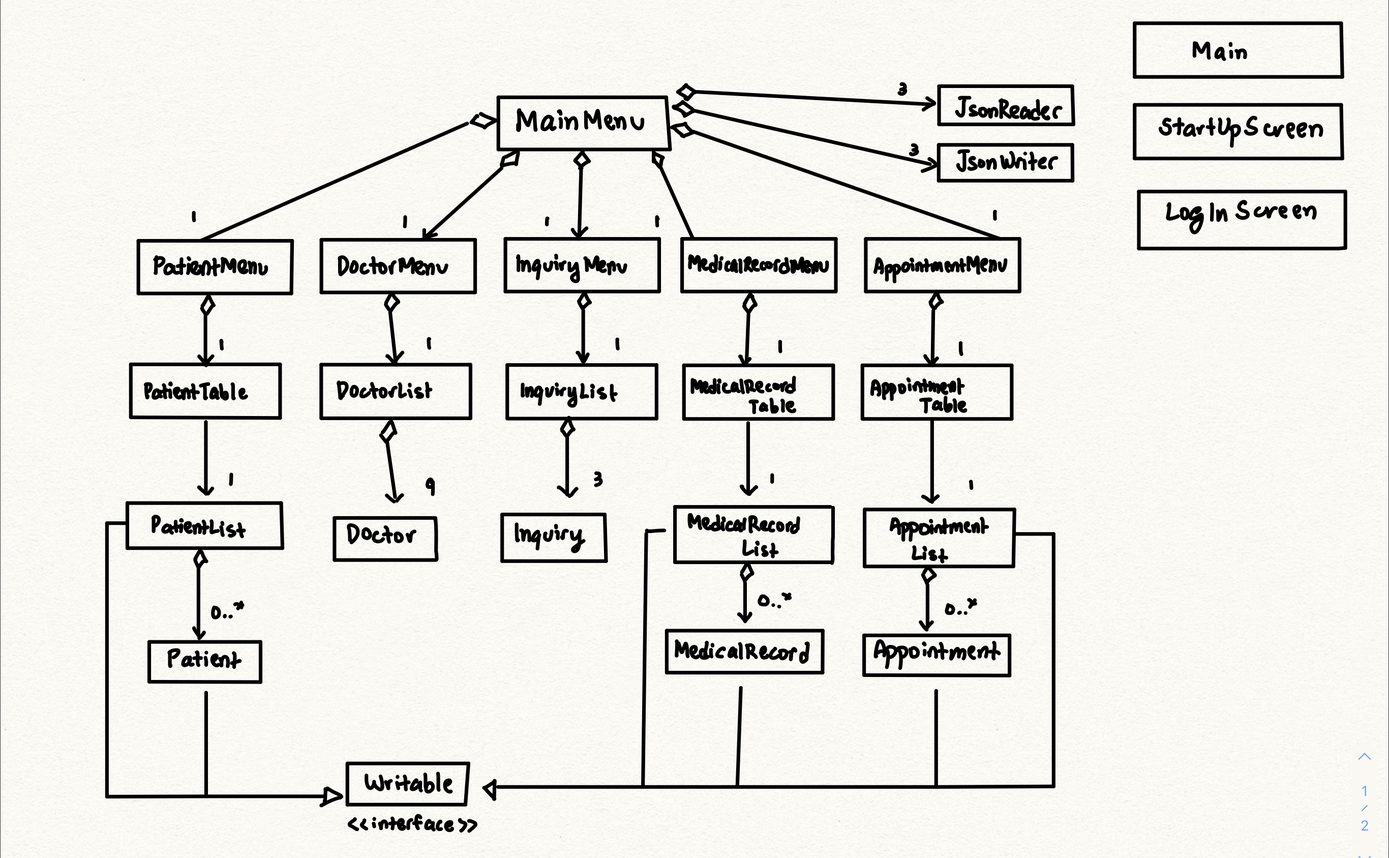
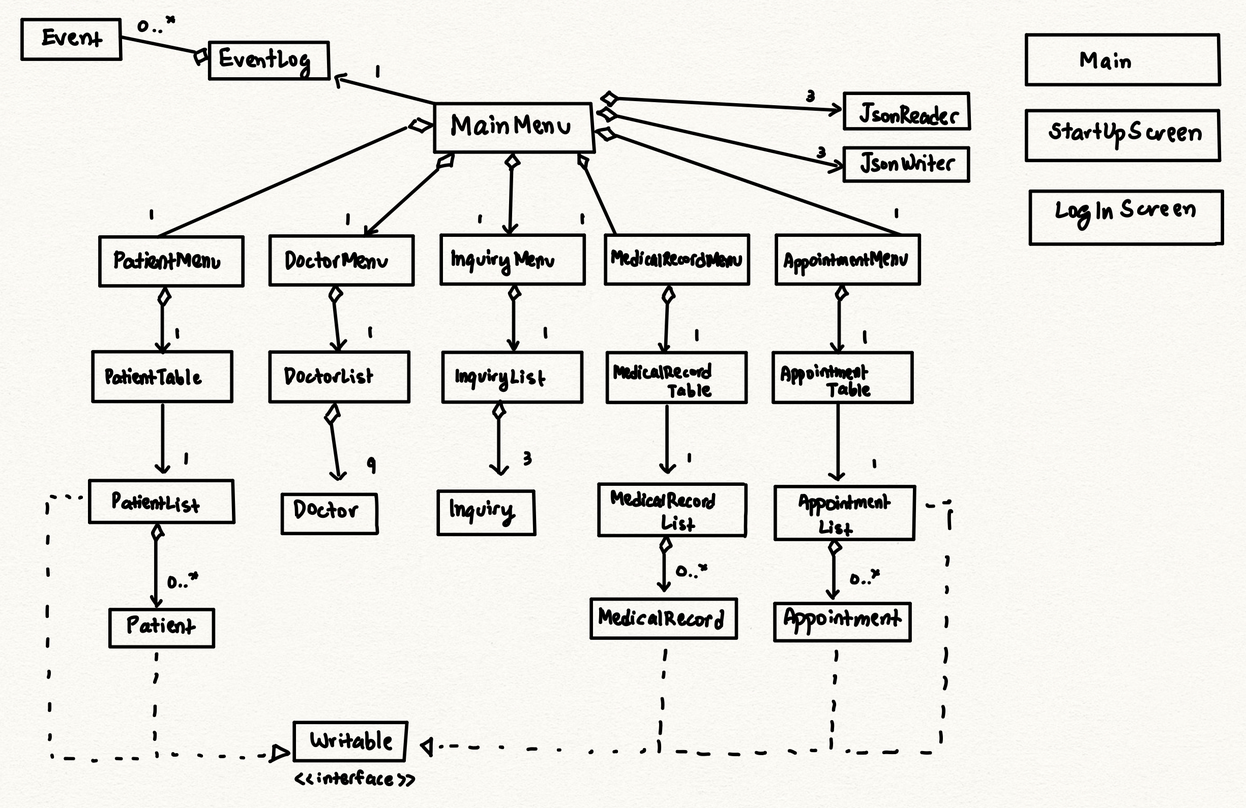
Last commit for Phase 4, everything is working as intended

diff --git a/src/main/model/Event.java b/src/main/model/Event.java
@@ -5,9 +5,8 @@ import java.util.Date;
 
 
 /**
- * Represents a hospital management system event.
+ * Represents an alarm system event.
  */
-// This code references the AlarmSystem code given by the course.
 public class Event {
     private static final int HASH_CONSTANT = 13;
     private Date dateLogged;
@@ -48,14 +47,13 @@ public class Event {
             return false;
         }
 
-        if (other.getClass() != this.getClass()) {
+        if (other.getClass() != this.getClass())
             return false;
-        }
 
         Event otherEvent = (Event) other;
 
-        return (this.dateLogged.equals(otherEvent.dateLogged)
-                && this.description.equals(otherEvent.description));
+        return (this.dateLogged.equals(otherEvent.dateLogged) &&
+                this.description.equals(otherEvent.description));
     }
 
     @Override

diff --git a/src/main/ui/MainMenu.java b/src/main/ui/MainMenu.java
@@ -99,9 +99,10 @@ public class MainMenu extends JFrame implements ActionListener {
     // MODIFIES: el
     // EFFECTS: prints the event log to the console, then clears it.
     public void printLog() {
+        System.out.println("EVENT LOG:");
         el = EventLog.getInstance();
         for (Event e : el) {
-            System.out.println(e.getDate() + ":" + TAB + e.getDescription());
+            System.out.println(e.toString());
         }
         el.clear();
         System.out.println("Event log has been cleared.");

diff --git a/README.md b/README.md
@@ -1,4 +1,4 @@
-# Term Project for CPSC 210: MyHospitalManager
+# My Project: MyHospitalManager
 
 ### What does the application do?
 
@@ -17,7 +17,7 @@ and pursue my interests further.
 
 ## User Stories
 - As a user, I want to be able to log in using a system-wide username and password.
-- As a user, I wish to be able to book an appointment for a given patient.
+- As a user, I wish to be able to book appointments in and out of the system.
 - As a user, I wish to be able to generate a list of inquiries made to the Help Desk.
 - As a user, I wish to be able to generate a list of all doctors currently employed at the Hospital.
 - As a user, I wish to be able to check patients in and out of the system.
@@ -27,27 +27,49 @@ currently checked-in patients,  medical records, and booked appointments).
 - As a user, I wish to be given the option to load the previous state of my program.
 
 ##Phase 4: Task 2
-- Thu Nov 18 17:12:17 PST 2021: Patient has been added to list of patients.
-- Thu Nov 18 17:12:21 PST 2021: Patient has been added to list of patients.
-- Thu Nov 18 17:12:24 PST 2021: Patient has been removed to list of patients.
-- Thu Nov 18 17:12:27 PST 2021: Doctor has been added to list of doctors.
-- Thu Nov 18 17:12:27 PST 2021: Doctor has been added to list of doctors.
-- Thu Nov 18 17:12:27 PST 2021: Doctor has been added to list of doctors.
-- Thu Nov 18 17:12:27 PST 2021: Doctor has been added to list of doctors.
-- Thu Nov 18 17:12:27 PST 2021: Doctor has been added to list of doctors.
-- Thu Nov 18 17:12:27 PST 2021: Doctor has been added to list of doctors.
-- Thu Nov 18 17:12:27 PST 2021: Doctor has been added to list of doctors.
-- Thu Nov 18 17:12:27 PST 2021: Doctor has been added to list of doctors.
-- Thu Nov 18 17:12:27 PST 2021: Doctor has been added to list of doctors.
-- Thu Nov 18 17:12:27 PST 2021: List of doctors has been initialized with final variables.
-- Thu Nov 18 17:12:30 PST 2021: Inquiry has been added to list of inquiries.
-- Thu Nov 18 17:12:30 PST 2021: Inquiry has been added to list of inquiries.
-- Thu Nov 18 17:12:30 PST 2021: Inquiry has been added to list of inquiries.
-- Thu Nov 18 17:12:30 PST 2021: List of inquiries has been initialized.
-- Thu Nov 18 17:12:37 PST 2021: Medical record has been added to list of medical records.
-- Thu Nov 18 17:12:46 PST 2021: Appointment added to list of appointments.
-- Thu Nov 18 17:12:49 PST 2021: Appointment removed from list of appointments.
+- EVENT LOG:
+- Thu Nov 18 21:04:36 PST 2021
+Patient has been added to list of patients.
+- Thu Nov 18 21:04:38 PST 2021
+Patient has been added to list of patients.
+- Thu Nov 18 21:04:41 PST 2021
+Patient has been removed from list of patients.
+- Thu Nov 18 21:04:45 PST 2021
+Doctor has been added to list of doctors.
+- Thu Nov 18 21:04:45 PST 2021
+Doctor has been added to list of doctors.
+- Thu Nov 18 21:04:45 PST 2021
+Doctor has been added to list of doctors.
+- Thu Nov 18 21:04:45 PST 2021
+Doctor has been added to list of doctors.
+- Thu Nov 18 21:04:45 PST 2021
+Doctor has been added to list of doctors.
+- Thu Nov 18 21:04:45 PST 2021
+Doctor has been added to list of doctors.
+- Thu Nov 18 21:04:45 PST 2021
+Doctor has been added to list of doctors.
+- Thu Nov 18 21:04:45 PST 2021
+Doctor has been added to list of doctors.
+- Thu Nov 18 21:04:45 PST 2021
+Doctor has been added to list of doctors.
+- Thu Nov 18 21:04:45 PST 2021
+List of doctors has been initialized with final variables.
+- Thu Nov 18 21:04:46 PST 2021
+Inquiry has been added to list of inquiries.
+- Thu Nov 18 21:04:46 PST 2021
+Inquiry has been added to list of inquiries.
+- Thu Nov 18 21:04:46 PST 2021
+Inquiry has been added to list of inquiries.
+- Thu Nov 18 21:04:46 PST 2021
+List of inquiries has been initialized.
+- Thu Nov 18 21:04:53 PST 2021
+Medical record has been added to list of medical records.
+- Thu Nov 18 21:04:59 PST 2021
+Appointment added to list of appointments.
+- Thu Nov 18 21:05:02 PST 2021
+Appointment has been removed from list of appointments.
 - Event log has been cleared.
+
 
 ##Phase 4: Task 3
 
